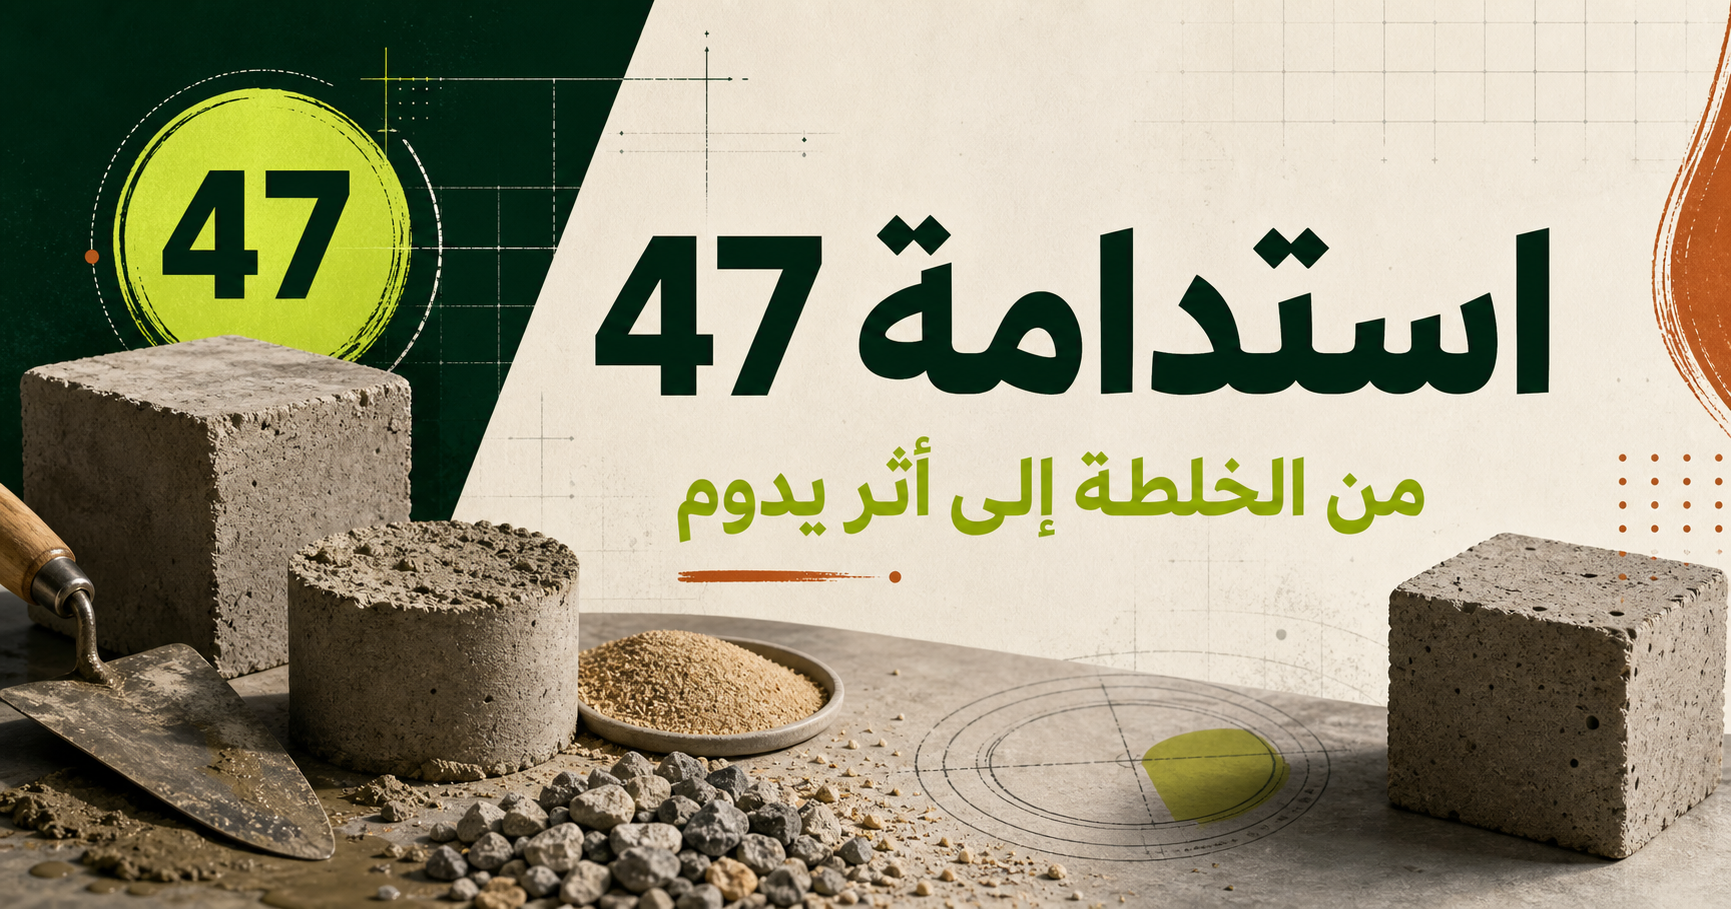
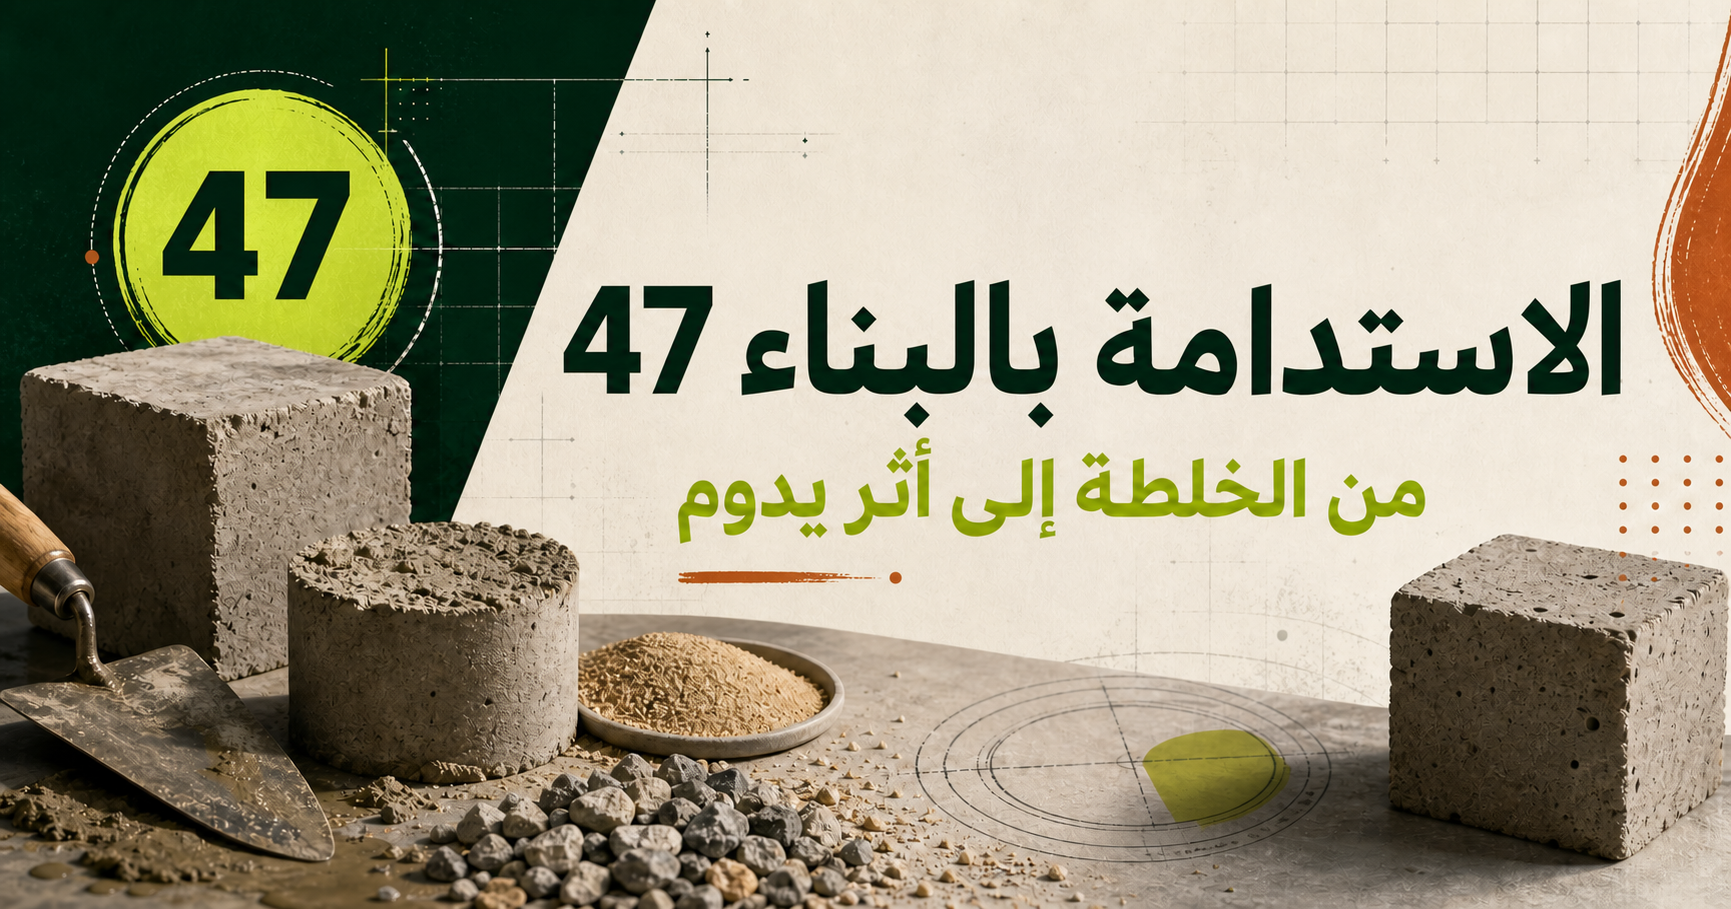
Rename brand to Sustainable Construction 47

diff --git a/app/layout.tsx b/app/layout.tsx
@@ -2,7 +2,7 @@ import type { Metadata } from "next";
 import "./globals.css";
 
 const siteUrl = "https://kisr47.pages.dev";
-const pageTitle = "استدامة 47 | من الخلطة إلى أثر يدوم";
+const pageTitle = "الاستدامة بالبناء 47 | من الخلطة إلى أثر يدوم";
 const pageDescription =
   "مشروع طلبة الدورة الصيفية 47 يوثّق ما تعلّموه عن المونة والخلطات الخرسانية المستدامة، من القياس والخلط إلى فهم الأثر.";
 
@@ -31,7 +31,7 @@ export const metadata: Metadata = {
     type: "website",
     locale: "ar_KW",
     url: "/",
-    siteName: "استدامة 47",
+    siteName: "الاستدامة بالبناء 47",
     title: pageTitle,
     description:
       "تجربة طلبة الدورة الصيفية 47 في المونة والخلطات الخرسانية المستدامة.",
@@ -40,7 +40,7 @@ export const metadata: Metadata = {
         url: "/og.png",
         width: 1731,
         height: 909,
-        alt: "استدامة 47 — من الخلطة إلى أثر يدوم",
+        alt: "الاستدامة بالبناء 47 — من الخلطة إلى أثر يدوم",
       },
     ],
   },

diff --git a/app/page.tsx b/app/page.tsx
@@ -127,7 +127,7 @@ function Logo() {
         <i />
       </span>
       <span className="logo-copy">
-        <strong>استدامة 47</strong>
+        <strong>الاستدامة بالبناء 47</strong>
         <small>الدورة الصيفية</small>
       </span>
     </span>
